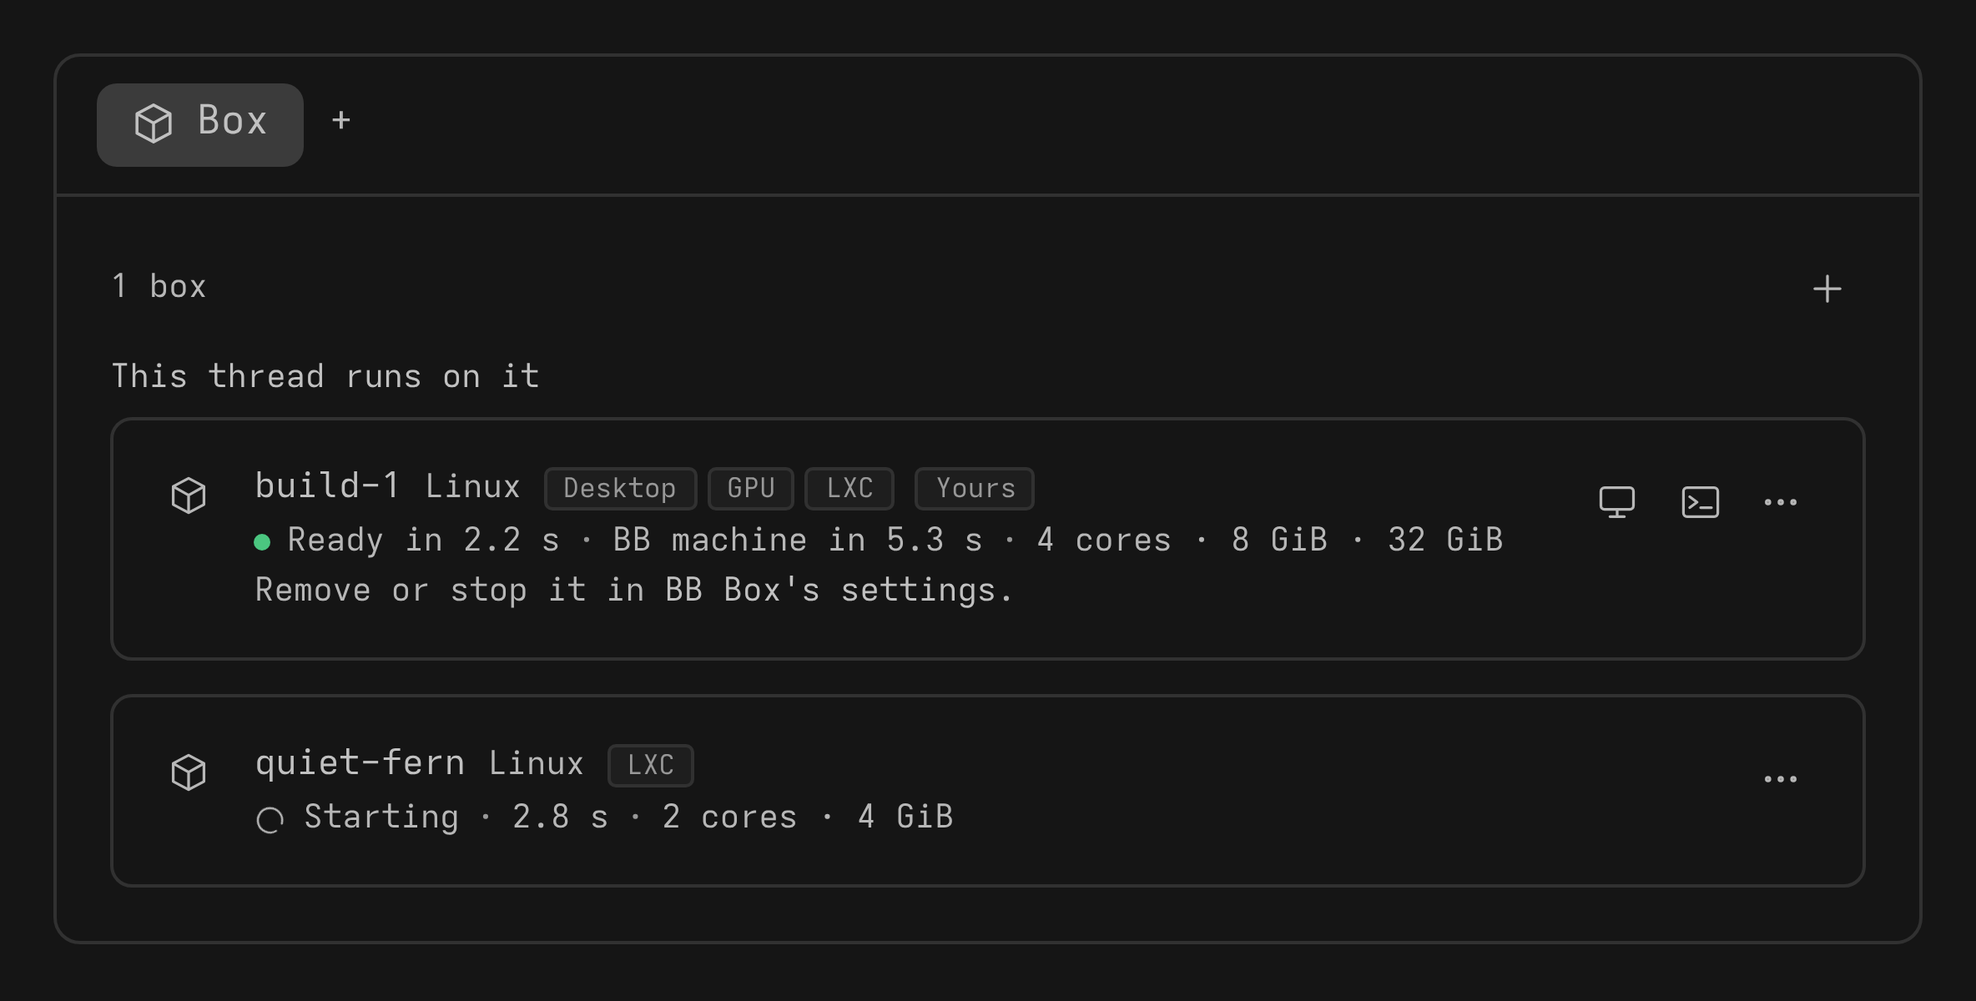
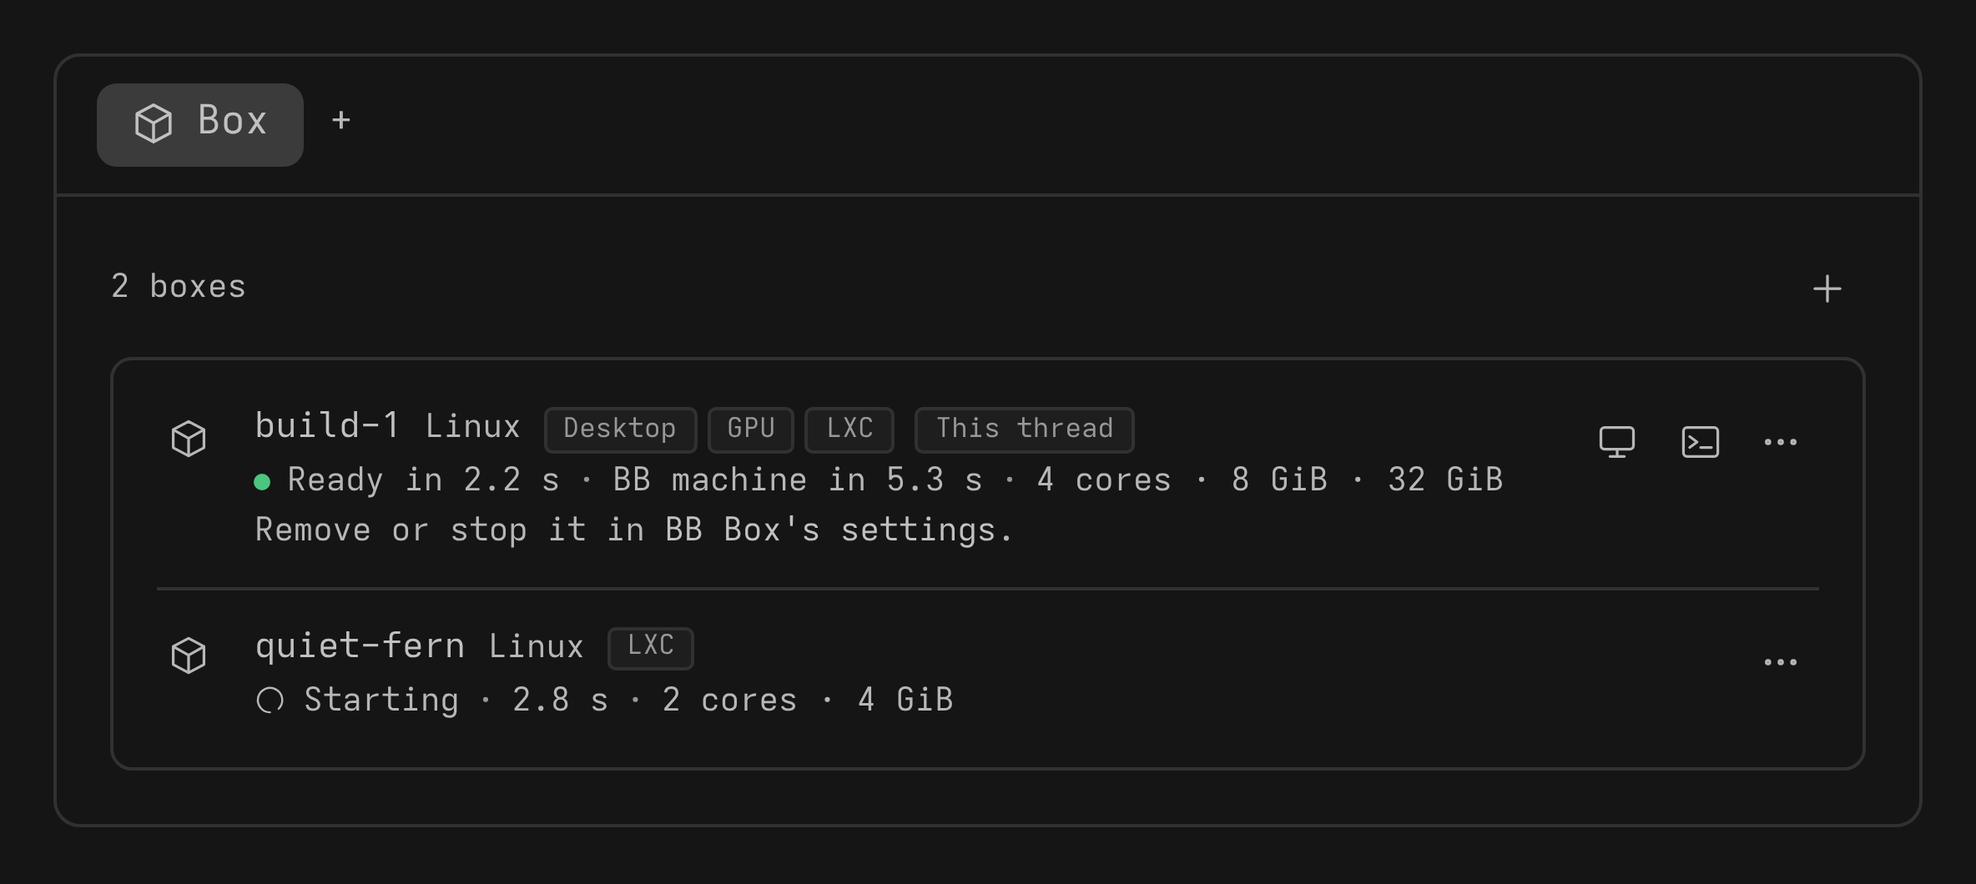
feat(app): the box a thread runs on is the first row of the one list, "This thread", and the bare Desktop and Terminal tabs count it (036) (#456)
The operator's notes of 4 October 2026 on a thread that runs on a bb-box
machine: the Box panel showed a section headed "This thread runs on it",
which read oddly, and under it the "No boxes yet / A computer for this
thread" empty state, since the thread had no boxes of its own; and the bare
Desktop and Terminal tabs ignored that machine and said "No desktop box".

Now there is one list. The machine the thread runs on is its first row,
with a small dim "This thread" badge beside its Desktop and VM badges, in
the badges' style, in place of "Yours"; the count counts it; its menu still
offers no Release, Stop or Start (removing it stays in settings, Your
machines, and the line under its status still says so). The empty state
shows only when there is nothing at all to list. The bare Desktop and
Terminal tabs count it: it is listed first, with the badge, and when it is
the only desktop, or the only box with a terminal, the bare tab opens it
straight away. The server already resolves it by id for those tabs.

Scenes: panel-runs-on (with a box of its own) reshot, panel-runs-on-only
(without) added; both themes. Tests cover the list, the count, the menu,
the empty state and both bare tabs; panel.md follows.

diff --git a/test/app.test.tsx b/test/app.test.tsx
@@ -378,7 +378,7 @@ function server(initial: BoxView[], options: { profileFailsOnce?: Set<string>; k
   const find = (ref: string) => boxes.find((candidate) => candidate.id === ref || candidate.name === ref) ?? null;
   const handlers: PluginRpcTestHandlers<Contract> = {
     state: ({ threadId }): PanelState => ({ boxes: threadId === THREAD ? boxes : [], kinds: options.kinds ?? KINDS, backends: BACKENDS, desktopPath: DESKTOP_PATH, terminalPath: TERMINAL_PATH, runsOn: options.runsOn ?? null, imageOffer: options.imageOffer ?? false, images: options.images ?? [] }),
-    desktop: ({ box: ref }): DesktopState => ({ box: find(ref) ?? machines.find((entry) => entry.box.id === ref)?.box ?? null, desktopPath: DESKTOP_PATH, terminalPath: TERMINAL_PATH }),
+    desktop: ({ box: ref }): DesktopState => ({ box: find(ref) ?? machines.find((entry) => entry.box.id === ref)?.box ?? (options.runsOn?.box.id === ref ? options.runsOn.box : null), desktopPath: DESKTOP_PATH, terminalPath: TERMINAL_PATH }),
     takeControl: ({ box: ref, viewer }) => change("takeControl", ref, (found) => ({ ...found, control: { owner: "human", holder: viewer } })),
     handBack: ({ box: ref }) => change("handBack", ref, (found) => ({ ...found, control: { owner: "agent", holder: null } })),
     desktopClipboard: () => null,
@@ -1761,16 +1761,18 @@ test("the Boxes page lists your machines first, without Open thread, and shows a
   await waitFor(() => expect(FakeSocket.made.at(-1)?.url).toContain("box=box_m1"));
 });
 
-test("the panel shows the box this thread runs on first, without Release or Stop, and says where they are", async () => {
+test("the panel lists the box this thread runs on first in the one list, with a This thread badge, without Release or Stop, and says where they are", async () => {
   const yours = desktopBox({ id: "box_m1", name: "build-1" });
   const { handlers } = server([box()], { runsOn: { box: yours, owner: "yours", threadId: null } });
   const slot = panel(handlers);
-  expect(await slot.findByText("This thread runs on it")).toBeTruthy();
-  expect(slot.getByText("build-1")).toBeTruthy();
-  expect(slot.getByText("Yours")).toBeTruthy();
+  expect(await slot.findByText("build-1")).toBeTruthy();
+  // No heading and no card of its own (the operator, 4 October 2026): one list, the machine first, and the count counts it.
+  expect(slot.queryByText("This thread runs on it")).toBeNull();
+  expect(slot.getByText("This thread")).toBeTruthy();
+  expect(slot.queryByText("Yours")).toBeNull();
   expect(slot.getByText(/Remove or stop it in/)).toBeTruthy();
   expect(slot.getByRole("link", { name: "BB Box's settings" }).getAttribute("href")).toBe("/settings/plugins/bb-box");
-  expect(slot.getByText("1 box")).toBeTruthy();
+  expect(slot.getByText("2 boxes")).toBeTruthy();
   const rows = slot.getAllByRole("button", { name: /: details$/ }).map((node) => node.getAttribute("aria-label"));
   expect(rows).toEqual(["build-1: details", "calm-otter: details"]);
   expect(slot.getAllByRole("button", { name: "Stop" })).toHaveLength(1);
@@ -1778,10 +1780,49 @@ test("the panel shows the box this thread runs on first, without Release or Stop
   expect(within(menu).getAllByRole("menuitem").map((item) => item.textContent)).toEqual(["Open desktop", "Open desktop in a browser tab", "Open terminal", "Copy address", "Check now"]);
 
   cleanup();
+  // Only the machine it runs on, no boxes of its own: the list, not the empty state.
+  const only = panel(server([], { runsOn: { box: yours, owner: "yours", threadId: null } }).handlers);
+  expect(await only.findByText("build-1")).toBeTruthy();
+  expect(only.queryByText("No boxes yet")).toBeNull();
+  expect(only.getByText("1 box")).toBeTruthy();
+
+  cleanup();
   const theirs = panel(server([], { runsOn: { box: yours, owner: "thread", threadId: "thr_other" } }).handlers);
   expect(await theirs.findByText(/Held by/)).toBeTruthy();
   expect(await theirs.findByRole("button", { name: "UI thread" })).toBeTruthy();
-  expect(theirs.queryByText("Yours")).toBeNull();
+  expect(theirs.getByText("This thread")).toBeTruthy();
+  expect(theirs.queryByText("No boxes yet")).toBeNull();
+});
+
+test("the bare Desktop and Terminal tabs count the box this thread runs on: alone it opens straight away, with others it is listed first (036)", async () => {
+  const yours = desktopBox({ id: "box_m1", name: "build-1" });
+  const desktopAction = app.threadPanelActions.find((candidate) => candidate.id === "desktop");
+  const terminalAction = app.threadPanelActions.find((candidate) => candidate.id === "terminal");
+  // Alone: the thread's own boxes have no desktop, so the machine's desktop opens straight away.
+  const alone = renderSlot(desktopAction!, { threadId: THREAD, params: null }, { rpc: server([box()], { runsOn: { box: yours, owner: "yours", threadId: null } }).handlers, pluginId: "bb-box" });
+  expect(await alone.findByText("Connecting to the desktop…")).toBeTruthy();
+  await waitFor(() => expect(new URL(novnc.FakeRfb.made.at(-1)!.url).searchParams.get("box")).toBe("box_m1"));
+  cleanup();
+  // With a desktop of the thread's own: a chooser, the machine first with its badge.
+  const many = renderSlot(desktopAction!, { threadId: THREAD, params: null }, { rpc: server([desktopBox()], { runsOn: { box: yours, owner: "yours", threadId: null } }).handlers, pluginId: "bb-box" });
+  expect(await many.findByText("build-1")).toBeTruthy();
+  expect(many.getByText("bold-heron")).toBeTruthy();
+  expect(many.getByText("This thread")).toBeTruthy();
+  expect(many.getAllByRole("button", { name: "Open" })).toHaveLength(2);
+  fireEvent.click(many.getAllByRole("button", { name: "Open" })[0]!);
+  expect(many.inspection.navigateCalls).toEqual([{ method: "openThreadPanel", options: { actionId: "desktop", title: "build-1", params: { box: "box_m1" } } }]);
+  cleanup();
+  // The Terminal tab: alone, the machine's terminal opens straight away.
+  const terminal = renderSlot(terminalAction!, { threadId: THREAD, params: null }, { rpc: server([box({ terminal: false })], { runsOn: { box: yours, owner: "yours", threadId: null } }).handlers, pluginId: "bb-box" });
+  expect(await terminal.findByText("Connecting…")).toBeTruthy();
+  await waitFor(() => expect(new URL(FakeSocket.made.at(-1)!.url).searchParams.get("box")).toBe("box_m1"));
+  cleanup();
+  // With a box of the thread's own: a chooser, the machine first.
+  const both = renderSlot(terminalAction!, { threadId: THREAD, params: null }, { rpc: server([box()], { runsOn: { box: yours, owner: "yours", threadId: null } }).handlers, pluginId: "bb-box" });
+  expect(await both.findByText("build-1")).toBeTruthy();
+  expect(both.getByText("This thread")).toBeTruthy();
+  fireEvent.click(both.getAllByRole("button", { name: "Open" })[0]!);
+  expect(both.inspection.navigateCalls).toEqual([{ method: "openThreadPanel", options: { actionId: "terminal", title: "Terminal: build-1", params: { box: "box_m1" } } }]);
 });
 
 test("an arm64 kind carries an arm64 badge, and macOS, always arm64, does not (040); the form offers arm64 when a kind has it", async () => {

diff --git a/src/app/panel.tsx b/src/app/panel.tsx
@@ -17,7 +17,7 @@ import { DelayedLoading } from "@/components/ui/delayed-loading";
 import { Skeleton } from "@/components/ui/skeleton";
 import type { BoxResult, Contract, PanelState, ThreadOnBox } from "../plugin/contract.ts";
 import type { BoxView } from "../plugin/views.ts";
-import { BoxRow, type BoxAction } from "./box-row.tsx";
+import { BoxRow, type BoxAction, type Held } from "./box-row.tsx";
 import { EmptyPanel, forThread, message, SETTINGS_PATH, useLive, useNow } from "./common.tsx";
 import { useThreadTitles } from "./desktop.tsx";
 import { IMAGE_REQUEST, NewBox, type SizeRequest } from "./new-box.tsx";
@@ -44,6 +44,11 @@ export function BoxesPanel({ threadId }: { threadId: string }) {
   const runsOn = state?.runsOn ?? null;
   const titles = useThreadTitles(runsOn?.threadId ? [runsOn.threadId] : []);
   const now = useNow(boxes.some(isMoving) || (runsOn !== null && isMoving(runsOn.box)));
+  // One list (the operator, 4 October 2026): the box this thread runs on first, with a "This thread" badge, then the thread's own.
+  const rows: { box: BoxView; held: Held | null }[] = [
+    ...(runsOn ? [{ box: runsOn.box, held: { owner: runsOn.owner, threadId: runsOn.threadId, threadTitle: runsOn.threadId ? (titles[runsOn.threadId] ?? null) : null } }] : []),
+    ...boxes.map((box) => ({ box, held: null })),
+  ];
 
   const settle = async (result: Promise<BoxResult>, onThreads?: (threads: readonly ThreadOnBox[]) => void): Promise<string | null> => {
     let refused: string | null;
@@ -92,7 +97,7 @@ export function BoxesPanel({ threadId }: { threadId: string }) {
       </DelayedLoading>
     );
   }
-  if (!state.kinds.length && !boxes.length) {
+  if (!state.kinds.length && !rows.length) {
     return (
       <EmptyPanel title="BB Box is not set up yet">
         <p className="mt-1">Set a backend up in its settings and turn it on.</p>
@@ -108,7 +113,7 @@ export function BoxesPanel({ threadId }: { threadId: string }) {
   return (
     <div className="space-y-3">
       <div className="flex items-center gap-2">
-        <span className="min-w-0 flex-1 truncate text-xs text-muted-foreground">{boxes.length ? `${boxes.length} ${boxes.length === 1 ? "box" : "boxes"}` : null}</span>
+        <span className="min-w-0 flex-1 truncate text-xs text-muted-foreground">{rows.length ? `${rows.length} ${rows.length === 1 ? "box" : "boxes"}` : null}</span>
         {state.kinds.length ? (
           <NewBox
             kinds={state.kinds}
@@ -124,27 +129,11 @@ export function BoxesPanel({ threadId }: { threadId: string }) {
           {problem}
         </p>
       ) : null}
-      {runsOn ? (
-        <div className="space-y-1.5">
-          <p className="text-xs font-medium text-foreground">This thread runs on it</p>
-          <div className="rounded-lg border border-border bg-card px-4 py-1">
-            <BoxRow
-              box={runsOn.box}
-              threadId={threadId}
-              open={open === runsOn.box.id}
-              onToggle={() => setOpen((current) => (current === runsOn.box.id ? null : runsOn.box.id))}
-              act={act}
-              now={now}
-              held={{ owner: runsOn.owner, threadId: runsOn.threadId, threadTitle: runsOn.threadId ? (titles[runsOn.threadId] ?? null) : null }}
-            />
-          </div>
-        </div>
-      ) : null}
-      {boxes.length ? (
+      {rows.length ? (
         <div className="rounded-lg border border-border bg-card px-4 py-1">
           <div className="divide-y divide-border">
-            {boxes.map((box) => (
-              <BoxRow key={box.id} box={box} threadId={threadId} open={open === box.id} onToggle={() => setOpen((current) => (current === box.id ? null : box.id))} act={act} now={now} />
+            {rows.map(({ box, held }) => (
+              <BoxRow key={box.id} box={box} threadId={threadId} open={open === box.id} onToggle={() => setOpen((current) => (current === box.id ? null : box.id))} act={act} now={now} held={held} />
             ))}
           </div>
         </div>

diff --git a/src/app/desktop.tsx b/src/app/desktop.tsx
@@ -10,7 +10,7 @@ import { DropdownMenu, DropdownMenuContent, DropdownMenuItem, DropdownMenuTrigge
 import { cn } from "@/lib/utils";
 import type { BoxResult, BoxEntry, Contract, DesktopState, PanelState } from "../plugin/contract.ts";
 import type { BoxView } from "../plugin/views.ts";
-import { BOXES_ACTION, EmptyPanel, forThread, IconButton, isArm64Badge, KindBadges, lacksDocker, message, Meta, Notice, osName, SETTINGS_PATH, StatusDot, type Tone, useLive, useNow } from "./common.tsx";
+import { Badge, BOXES_ACTION, EmptyPanel, forThread, IconButton, isArm64Badge, KindBadges, lacksDocker, message, Meta, Notice, osName, SETTINGS_PATH, StatusDot, type Tone, useLive, useNow } from "./common.tsx";
 import { claimKept, dropKept, keptFree, releaseKept, type Kept } from "./kept.ts";
 import { controlWord, statusOf } from "./status.ts";
 import { BoxTerminal, canOpenTerminal } from "./terminal.tsx";
@@ -548,7 +548,7 @@ export function DesktopPanel({ threadId, params }: { threadId: string; params: u
 }
 
 /** A box as a row: its glyph, name, kind, state (and who has control, for a desktop), with its actions. */
-export function BoxLine({ box, meta, actions }: { box: BoxView; meta?: string | null; actions?: React.ReactNode }) {
+export function BoxLine({ box, meta, badge, actions }: { box: BoxView; meta?: string | null; badge?: React.ReactNode; actions?: React.ReactNode }) {
   const status = statusOf(box, Date.now());
   const control = box.desktop && box.state === "ready" && !controlWord(box, new Set()) ? "The agent has control" : null;
   return (
@@ -559,6 +559,7 @@ export function BoxLine({ box, meta, actions }: { box: BoxView; meta?: string | 
           <span className="truncate text-sm font-medium text-foreground">{box.name}</span>
           <span className="truncate text-xs text-muted-foreground">{osName(box.os)}</span>
           <KindBadges desktop={box.desktop} gpu={box.gpu} noDocker={lacksDocker(box)} arm64={isArm64Badge(box.os, box.arch)} forms={box.form ? [box.form] : []} />
+          {badge}
         </span>
         <div className="mt-0.5 flex min-w-0 items-start gap-1.5 text-xs leading-snug text-muted-foreground">
           <StatusDot tone={status.tone} />
@@ -581,7 +582,9 @@ function DesktopChooser({ threadId }: { threadId: string }) {
   const navigate = useBbNavigate();
   const open = useOpenDesktop();
   const { value: state, error } = useLive<PanelState>(threadId, () => rpc.call("state", { threadId }), forThread(threadId));
-  const desktops = state?.boxes.filter((box) => box.desktop) ?? [];
+  // The box this thread runs on counts too (the operator, 4 October 2026): listed first, and alone it opens straight away.
+  const runsOn = state?.runsOn?.box.desktop ? state.runsOn.box : null;
+  const desktops = [...(runsOn ? [runsOn] : []), ...(state?.boxes.filter((box) => box.desktop) ?? [])];
   useNow(desktops.some((box) => box.state === "acquiring" || box.state === "starting"), 1000);
   if (desktops.length === 1) return <DesktopViewer key={desktops[0]!.id} threadId={threadId} boxId={desktops[0]!.id} newTab />;
   return (
@@ -602,6 +605,7 @@ function DesktopChooser({ threadId }: { threadId: string }) {
               <BoxLine
                 key={box.id}
                 box={box}
+                badge={box.id === runsOn?.id ? <Badge>This thread</Badge> : undefined}
                 actions={
                   <Button type="button" variant="outline" size="sm" className="h-7" onClick={() => open(box)}>
                     Open

diff --git a/src/app/terminal.tsx b/src/app/terminal.tsx
@@ -14,7 +14,7 @@ import { Button } from "@/components/ui/button";
 import { cn } from "@/lib/utils";
 import type { Contract, DesktopState, PanelState } from "../plugin/contract.ts";
 import type { BoxView } from "../plugin/views.ts";
-import { BOXES_ACTION, EmptyPanel, forThread, IconButton, message, Notice, StatusDot, useLive, useNow, type Tone } from "./common.tsx";
+import { Badge, BOXES_ACTION, EmptyPanel, forThread, IconButton, message, Notice, StatusDot, useLive, useNow, type Tone } from "./common.tsx";
 import { claimKept, dropKept, keptFree, releaseKept, type Kept } from "./kept.ts";
 import { BoxLine } from "./desktop.tsx";
 import { XTERM_CSS } from "./xterm-css.ts";
@@ -268,7 +268,9 @@ function TerminalChooser({ threadId }: { threadId: string }) {
   const navigate = useBbNavigate();
   const open = useOpenTerminal();
   const { value: state, error } = useLive<PanelState>(threadId, () => rpc.call("state", { threadId }), forThread(threadId));
-  const boxes = state?.boxes.filter((box) => box.terminal) ?? [];
+  // The box this thread runs on counts too (the operator, 4 October 2026): listed first, and alone it opens straight away.
+  const runsOn = state?.runsOn?.box.terminal ? state.runsOn.box : null;
+  const boxes = [...(runsOn ? [runsOn] : []), ...(state?.boxes.filter((box) => box.terminal) ?? [])];
   useNow(
     boxes.some((box) => box.state === "acquiring" || box.state === "starting"),
     1000,
@@ -292,6 +294,7 @@ function TerminalChooser({ threadId }: { threadId: string }) {
               <BoxLine
                 key={box.id}
                 box={box}
+                badge={box.id === runsOn?.id ? <Badge>This thread</Badge> : undefined}
                 actions={
                   <Button type="button" variant="outline" size="sm" className="h-7" onClick={() => open(box)}>
                     Open

diff --git a/scripts/preview/scenes.js b/scripts/preview/scenes.js
@@ -359,7 +359,7 @@ function rpc(boxes, options = {}) {
     "machines.stop": ({ box: ref }) => ({ box: null, error: null }),
     "machines.start": ({ box: ref }) => ({ box: null, error: null }),
     state: () => ({ boxes, kinds: options.kinds ?? KINDS, backends: BACKENDS, desktopPath: DESKTOP_PATH, terminalPath: TERMINAL_PATH, runsOn: options.runsOn ?? null, imageOffer: options.imageOffer ?? false, images: options.images ?? [] }),
-    desktop: ({ box: ref }) => ({ box: find(ref), desktopPath: DESKTOP_PATH, terminalPath: TERMINAL_PATH }),
+    desktop: ({ box: ref }) => ({ box: find(ref) ?? (options.runsOn?.box.id === ref ? options.runsOn.box : null), desktopPath: DESKTOP_PATH, terminalPath: TERMINAL_PATH }),
     allBoxes: () => [
       ...(options.machines ?? []).map((entry) => ({ threadId: "operator", box: entry.box, owner: "yours" })),
       ...boxes.map((candidate) => ({ threadId: THREAD, box: candidate, owner: "thread" })),
@@ -407,6 +407,7 @@ export const scenes = {
   "panel-nobackend": { slot: "boxes", chrome: boxesChrome, rpc: rpc([], { kinds: [] }) },
   "panel-list": { slot: "boxes", chrome: boxesChrome, rpc: rpc([starting, desktop, stopped]) },
   "panel-runs-on": { slot: "boxes", chrome: boxesChrome, rpc: rpc([starting], { runsOn: { box: MACHINES[0].box, owner: "yours", threadId: null } }) },
+  "panel-runs-on-only": { slot: "boxes", chrome: boxesChrome, rpc: rpc([], { runsOn: { box: MACHINES[0].box, owner: "yours", threadId: null } }) },
   "panel-list-narrow": {
     slot: "boxes",
     chrome: boxesChrome,

diff --git a/src/app/box-row.tsx b/src/app/box-row.tsx
@@ -77,7 +77,7 @@ export function BoxRow({
   onToggle: () => void;
   act: (method: BoxAction, box: BoxView) => Promise<void>;
   now: number;
-  /** Set for the box this thread runs on: its row offers no Release or Stop, and says where they are. */
+  /** Set for the box this thread runs on (036): a "This thread" badge, no Release, Stop or Start, and a line saying where those are. */
   held?: Held | null;
 }) {
   const pluginId = experimental_usePluginId();
@@ -137,7 +137,7 @@ export function BoxRow({
             <span className="min-w-0 truncate text-sm font-medium text-foreground">{box.name}</span>
             <span className="min-w-0 truncate text-xs font-normal text-muted-foreground">{osName(box.os)}</span>
             <KindBadges desktop={box.desktop} gpu={box.gpu} noDocker={lacksDocker(box)} arm64={isArm64Badge(box.os, box.arch)} forms={box.form ? [box.form] : []} />
-            {held?.owner === "yours" ? <Badge>Yours</Badge> : null}
+            {held ? <Badge>This thread</Badge> : null}
           </span>
         </button>
         <div className="mt-0.5 flex min-w-0 items-start gap-1.5 text-xs leading-snug text-muted-foreground">

diff --git a/docs/design/panel.md b/docs/design/panel.md
@@ -450,21 +450,27 @@ bottom sheet still carries the title "New box".
 ### The box this thread runs on
 
 A thread that runs on a box's BB machine, one of your machines (036) or
-another thread's, shows that box first, under the caption "This thread
-runs on it", in a card of its own above the thread's boxes; the count
-above the list counts the thread's own. The row is the box row with a
-"Yours" badge for your machine, and without Stop, Start, Release or "New
-thread on this box": a line under its status says where those are,
-"Remove or stop it in BB Box's settings." (a link), or names the thread
-that holds it, "Held by <title>", which opens that thread. Open desktop,
-Open terminal, Copy address and Check now stay.
+another thread's, lists that box first in the one list, with a small dim
+"This thread" badge beside its Desktop and VM badges, in the badges'
+style; the count above the list counts it. There is no heading and no card
+of its own (the operator, 4 October 2026: "This thread runs on it" read
+oddly above an empty state saying the thread had no boxes). The row offers
+no Release, Stop, Start or "New thread on this box": a line under its
+status says where those are, "Remove or stop it in BB Box's settings." (a
+link to Your machines), or names the thread that holds it, "Held by
+<title>", which opens that thread. Open desktop, Open terminal, Copy
+address and Check now stay. The bare Desktop and Terminal tabs count it
+too: it is listed first, and when it is the only desktop, or the only box
+with a terminal, the bare tab opens it straight away.
 
 ### Empty states
 
 - **No boxes**: BB's dashed empty panel: "No boxes yet", then "A computer
   for this thread." The operator asked for that line to stay this simple
   (1 October 2026). The toolbar's plus is the action; the panel does not
-  repeat it.
+  repeat it. It shows only when there is nothing at all to list: a thread
+  on one of your machines with no boxes of its own sees that machine's
+  row, not this.
 - **No backend on**: "BB Box is not set up yet. Set a backend up in its
   settings and turn it on." with an "Open BB Box settings" button that goes
   to the plugin's settings page. No "New box" button.
